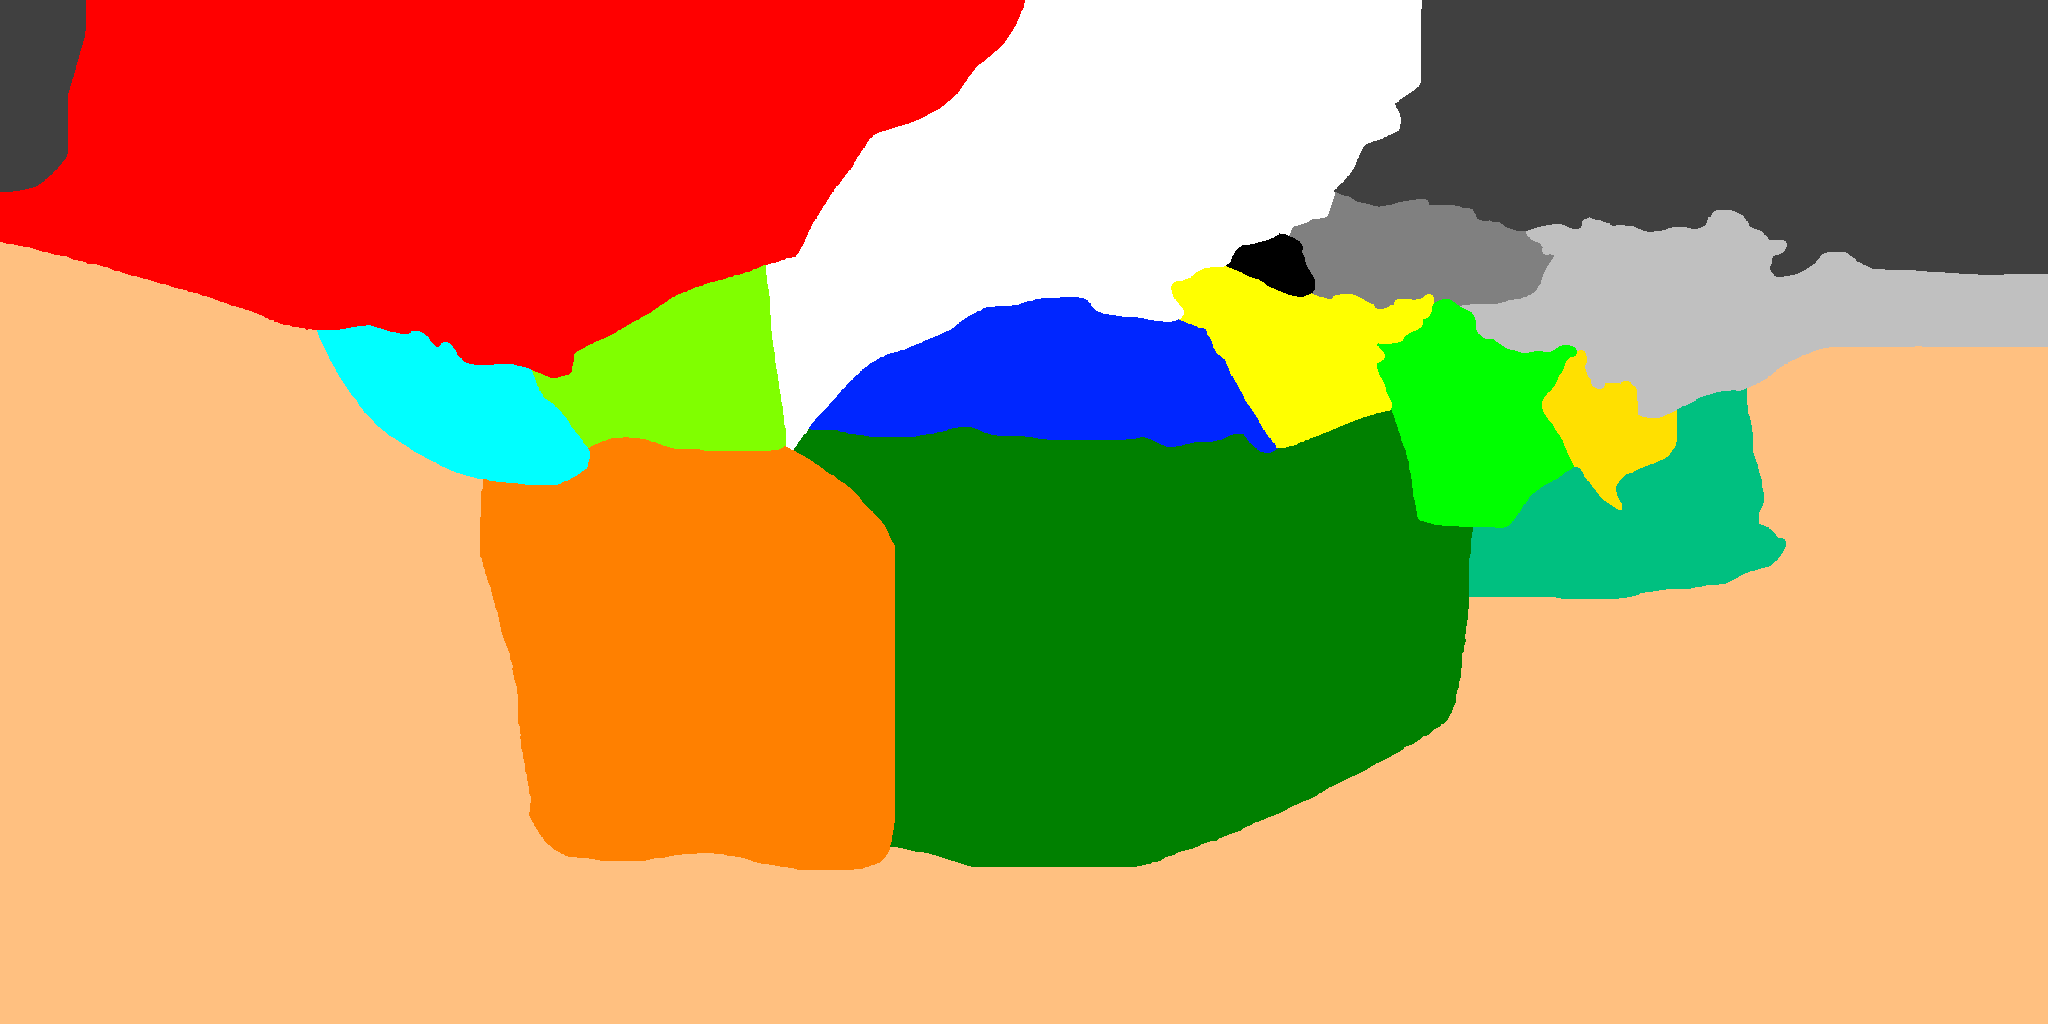
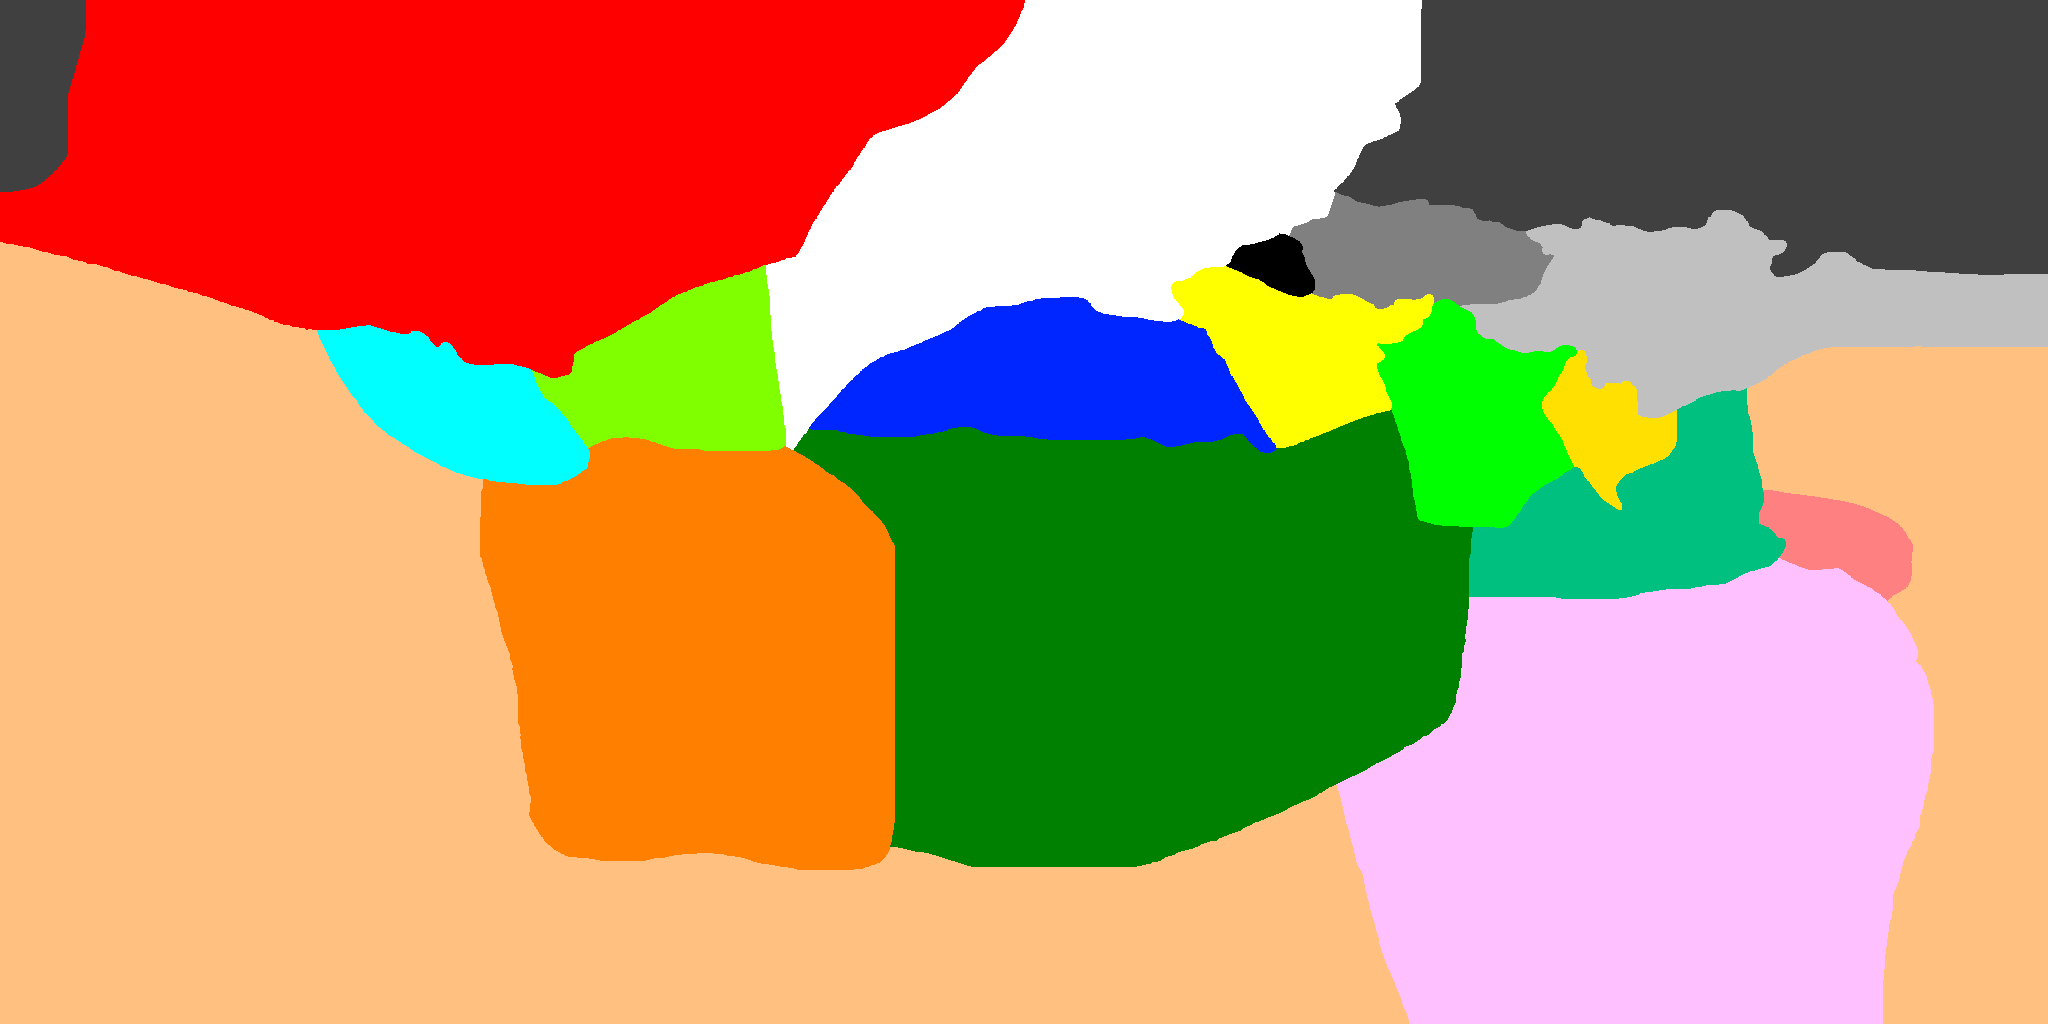
split oceania

Changed region(s): [[0.6562, 0.4688, 0.9688, 1.0]]

diff --git a/Geo.cs b/Geo.cs
@@ -14,11 +14,13 @@ namespace WalsParser {
 		AFRICA_NORTH = 0xFF0000FF,
 		AFRICA_SUBSAHARAN = 0xFF008000,
 		INDONESIA = 0xFF00C080,
-		OCEANIA = 0xFFFFC080,
 		AMERICA_NORTH_NORTH = 0xFFFF0000,
 		AMERICA_CENTRAL = 0xFF00FFFF,
 		AMERICA_SOUTH = 0xFFFF8000,
 		CARRIBEAN = 0xFF80FF00,
+		OCEANIA = 0xFFFFC080,
+		NEW_GUINEA = 0xFFFF8080,
+		AUSTRALIA = 0xFFFFC0FF,
 	}
 	static class Geo {
 		const string MAP_FILENAME = "regions.png";
